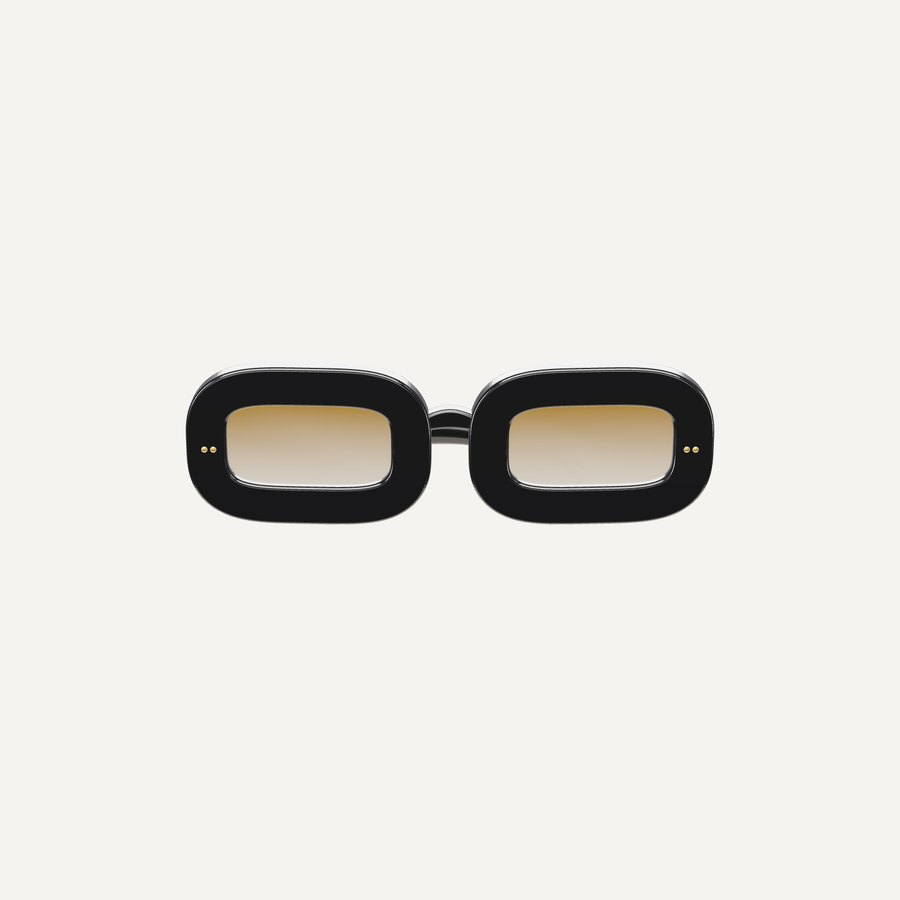
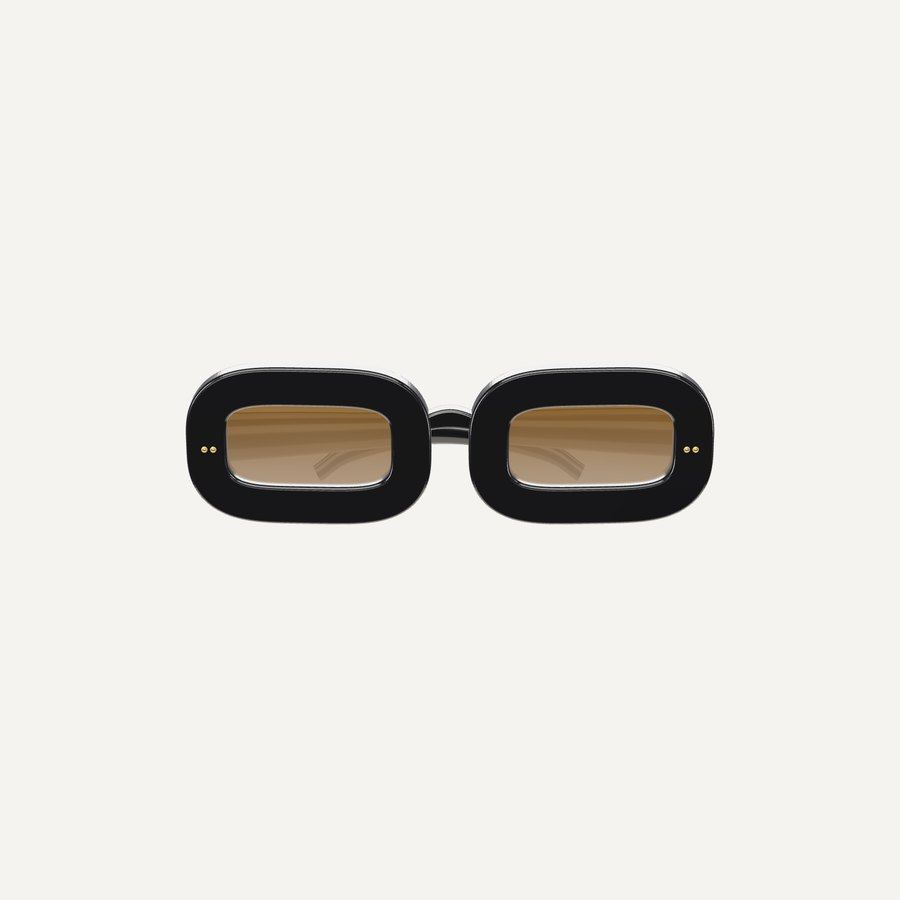
Dark see-through lenses and calmer glare on the 3D glasses
Lenses are now dark and genuinely transparent so the folded arms show
through from the front, like a real product shot. Reduced studio glare
so black frames stay black. Re-rendered the shop tiles.

Claude-Session: https://claude.ai/code/session_01YDnzZsrTwPVNqwQfzoY9F2

Changed region(s): [[0.56, 0.4356, 0.7467, 0.56], [0.2489, 0.4356, 0.4356, 0.56]]

diff --git a/demo-glasses/3d/glasses3d.js b/demo-glasses/3d/glasses3d.js
@@ -98,9 +98,9 @@ function templeMaterial(f) {
 }
 function lensMaterial(l) {
   return new T.MeshPhysicalMaterial({
-    color: 0xffffff, vertexColors: true, transparent: true, opacity: l.opacity ?? .9, roughness: l.mirror ? .06 : .03,
-    metalness: l.mirror ? .9 : 0, clearcoat: 1, clearcoatRoughness: .02, envMapIntensity: l.mirror ? 2 : 1.6,
-    iridescence: l.mirror ? .7 : .25, iridescenceIOR: 1.6, side: T.DoubleSide, depthWrite: false,
+    color: 0xffffff, vertexColors: true, transparent: true, opacity: l.opacity ?? .62, roughness: .04,
+    metalness: l.mirror ? .5 : 0, clearcoat: 1, clearcoatRoughness: .02, envMapIntensity: l.mirror ? 1.2 : .7,
+    iridescence: l.mirror ? .3 : 0, iridescenceIOR: 1.6, side: T.DoubleSide, depthWrite: false,
   });
 }
 const metalMat = (c, r = .2) => new T.MeshPhysicalMaterial({ color: c, metalness: 1, roughness: r, envMapIntensity: 1.4 });
@@ -145,7 +145,7 @@ export function buildGlasses(spec) {
     lg.translate(0, 0, -.75 + 0.2);
     { const lp = lg.attributes.position, lcx = side * cx; for (let i = 0; i < lp.count; i++) { const dx = (lp.getX(i) - lcx) / st.a, dy = lp.getY(i) / st.b, r2 = Math.min(1, dx * dx + dy * dy); lp.setZ(i, lp.getZ(i) + 3.4 * (1 - r2)); } lg.computeVertexNormals(); }
     const ys = inn.map((q) => q[1]), yMin = Math.min(...ys), yMax = Math.max(...ys);
-    const col = new T.Color(spec.lens.color), light = col.clone().lerp(new T.Color(0xffffff), spec.lens.mirror ? .08 : .3);
+    const col = new T.Color(spec.lens.color), light = col.clone().lerp(new T.Color(0xffffff), spec.lens.mirror ? .05 : .1);
     const cArr = [], pp = lg.attributes.position;
     for (let i = 0; i < pp.count; i++) {
       const t = (pp.getY(i) - yMin) / (yMax - yMin);
@@ -154,7 +154,7 @@ export function buildGlasses(spec) {
       cArr.push(cc.r, cc.g, cc.b);
     }
     lg.setAttribute('color', new T.Float32BufferAttribute(cArr, 3));
-    group.add(new T.Mesh(lg, lensMaterial(spec.lens)));
+    { const lm = new T.Mesh(lg, lensMaterial(spec.lens)); lm.renderOrder = 5; group.add(lm); }
 
     /* chunky acetate rim */
     const shape = new T.Shape(outP.map(([x, y]) => V2(x, y)));
@@ -235,8 +235,8 @@ function studioEnv() {
     const m = new T.Mesh(new T.PlaneGeometry(w, h), new T.MeshBasicMaterial({ color: new T.Color(v * tint[0], v * tint[1], v * tint[2]), side: T.DoubleSide }));
     m.position.set(...pos); m.lookAt(0, 0, 0); s.add(m);
   };
-  box(14, 10, [0, 10, 3], 7);               /* big top softbox */
-  box(3, 14, [-11, 3, 5], 12);              /* left strip */
+  box(14, 10, [0, 10, 3], 3.2);               /* big top softbox */
+  box(3, 14, [-11, 3, 5], 9);              /* left strip */
   box(3, 14, [11, 3, 3], 8, [1, .96, .9]);  /* right strip, warm */
   box(12, 4, [0, 1, 12], 3.2);              /* front fill */
   box(8, 8, [0, 5, -12], 5);                /* back rim */

diff --git a/demo-glasses/3d/catalog.js b/demo-glasses/3d/catalog.js
@@ -1,7 +1,7 @@
 /* Sample catalogue. Each colour is a full 3D material spec. */
 const solid = (c, r) => ({ type: 'solid', color: c, rough: r ?? .24 });
-const lens = (c, o) => ({ color: c, opacity: o ?? .92 });
-const mirror = (c) => ({ color: c, mirror: true, opacity: 1, grad: false });
+const lens = (c, o) => ({ color: c, opacity: o ?? .66 });
+const mirror = (c) => ({ color: c, mirror: true, opacity: .8, grad: false });
 
 export const PRODUCTS = [
   { id: 'ama', name: 'Ama', price: 340, kind: 'Round · Acetate', shape: 'round', rim: 11, depth: 9, blurb: 'Bold, perfectly round and cut from thick, hand-polished acetate.', colors: [
@@ -13,7 +13,7 @@ export const PRODUCTS = [
     { n: 'Noir', swatch: '#141414', frame: solid(0x111111, .2), lens: lens('#262626') },
     { n: 'Burgundy', swatch: '#6a1a2a', frame: solid(0x6a1a2a, .22), lens: lens('#4a2a30') } ] },
   { id: 'efua', name: 'Efua', price: 320, kind: 'Rectangle · Acetate', shape: 'rect', rim: 12, depth: 9, blurb: 'Wide, slim and confident. A modern rectangle with all-day comfort.', colors: [
-    { n: 'Noir', swatch: '#141414', frame: solid(0x111111, .2), lens: lens('#7a5a18') },
+    { n: 'Noir', swatch: '#141414', frame: solid(0x111111, .2), lens: lens('#6a4a10') },
     { n: 'Ivory', swatch: '#efe6d3', frame: solid(0xefe6d3, .26), lens: lens('#3a2a1c') },
     { n: 'Olive', swatch: '#4b5230', frame: solid(0x4b5230, .24), lens: lens('#2a3022') } ] },
   { id: 'kofi', name: 'Kofi', price: 360, kind: 'Classic · Crystal', shape: 'wayfarer', rim: 10.5, brow: 3, depth: 9, blurb: 'The classic wayfarer in clear crystal acetate you can see right through.', colors: [
@@ -21,7 +21,7 @@ export const PRODUCTS = [
     { n: 'Smoke', swatch: '#6b6b70', frame: { type: 'crystal', color: '#9a9aa2', deep: '#35353a' }, lens: lens('#2a2a2e') },
     { n: 'Noir', swatch: '#141414', frame: solid(0x111111, .2), lens: lens('#262626') } ] },
   { id: 'kwame', name: 'Kwame', price: 350, kind: 'Angular · Acetate', shape: 'angular', rim: 11.5, depth: 9, blurb: 'Strong, square and sharp, with mirrored lenses that catch the light.', colors: [
-    { n: 'Noir · Mirror', swatch: '#141414', frame: solid(0x111111, .18), lens: mirror('#b9bfc4') },
+    { n: 'Noir · Mirror', swatch: '#141414', frame: solid(0x111111, .18), lens: mirror('#46505a') },
     { n: 'Havana', swatch: '#7b4a1e', frame: { type: 'tortoise' }, lens: lens('#3a2a1a') },
     { n: 'Navy', swatch: '#1d2b4a', frame: solid(0x1d2b4a, .22), lens: lens('#2c4766') } ] },
   { id: 'esi', name: 'Esi', price: 390, kind: 'Butterfly · Acetate', shape: 'butterfly', rim: 11, brow: 2, depth: 9, blurb: 'Big, bold and glamorous. Statement frames in rich, glossy colour.', colors: [
